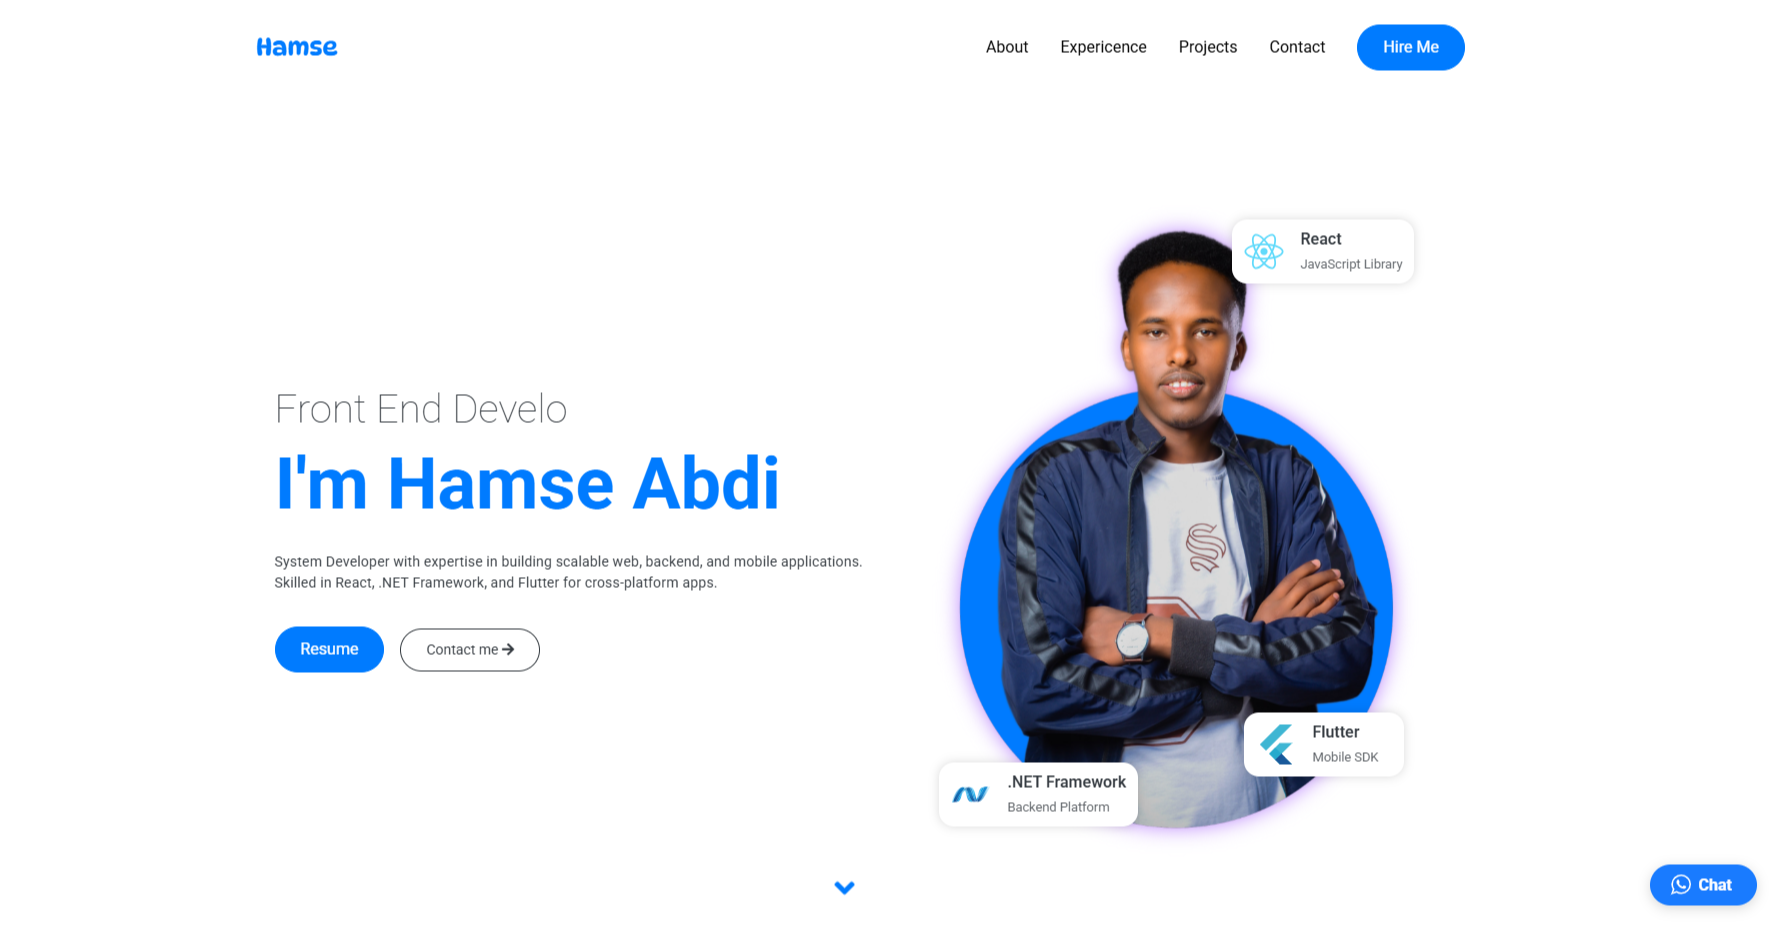
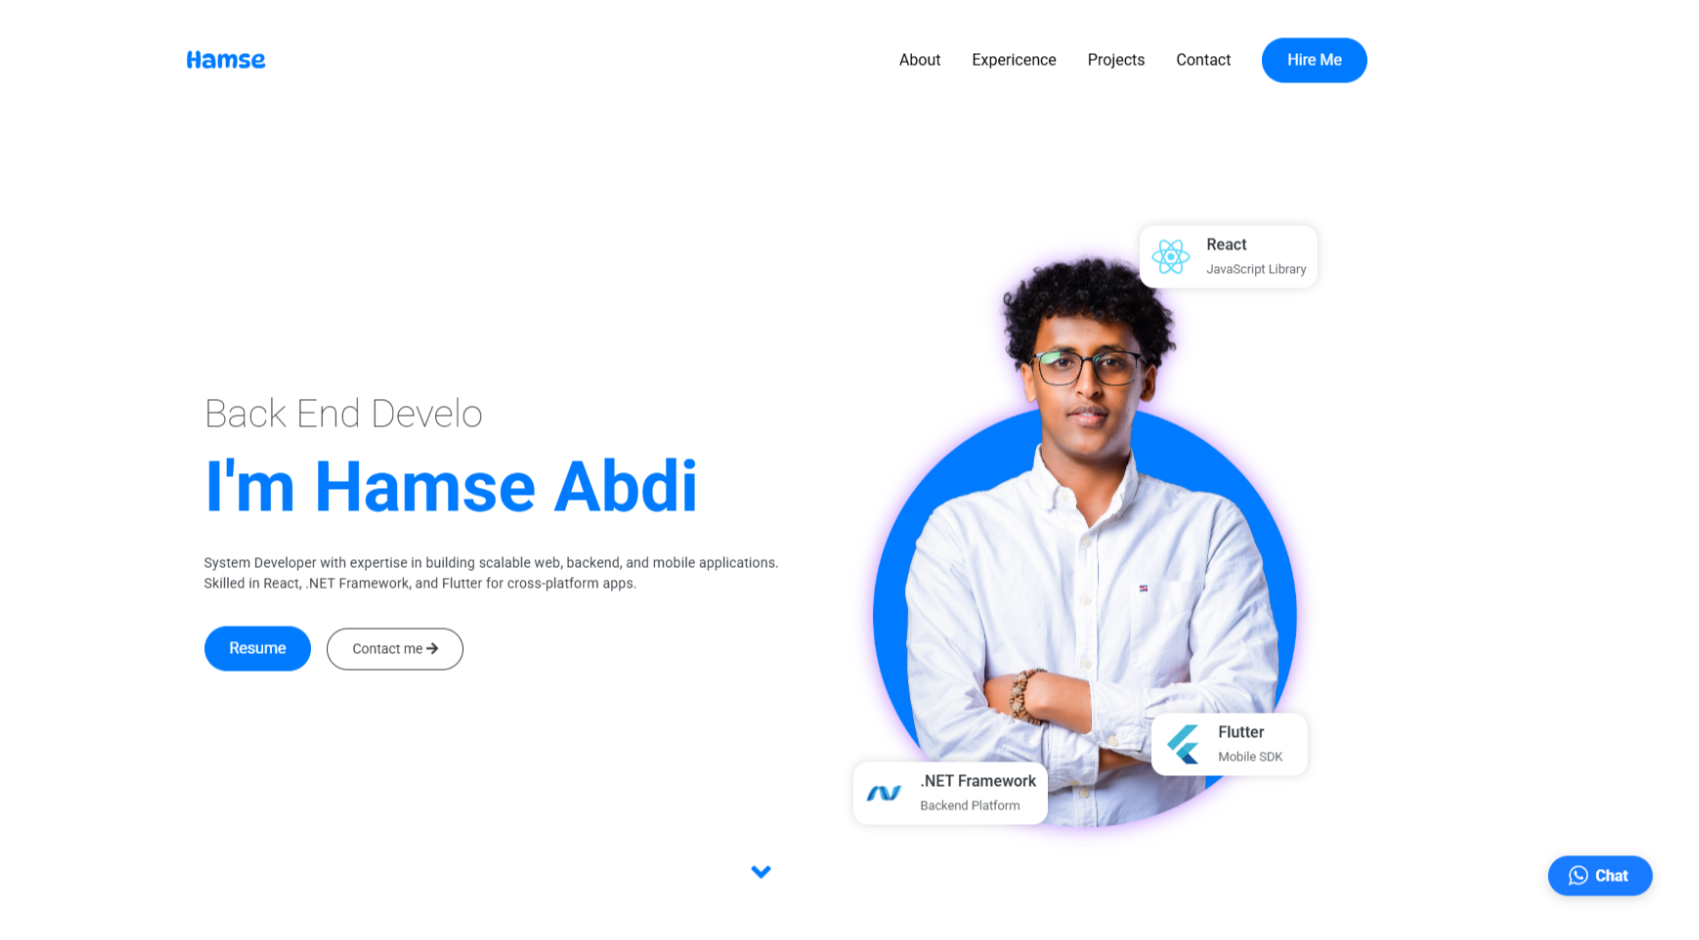
updated a readme

diff --git a/index.html b/index.html
@@ -96,7 +96,7 @@
                 data-aos="fade-left"
                 data-aos-duration="1200"
             >
-                <img class="img-fluid rounded-3 text-dark" src="img/header/hamse.png" alt="Hamse Image" style="filter: drop-shadow(0 0 10px #bb86fc); max-width: 100%; height: auto;"/>
+                <img class="img-fluid rounded-3 text-dark" src="img/header/wardi.png" alt="Hamse Image" style="filter: drop-shadow(0 0 10px #bb86fc); max-width: 100%; height: auto;"/>
 
                 <!-- Floating top card -->
                 <div class="floating-card top-card d-flex align-items-center text-left" style="top: 20px; right: 0;">
